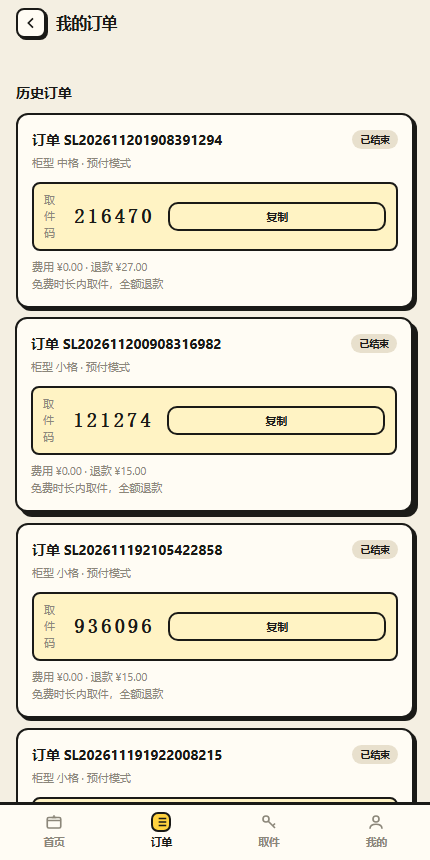
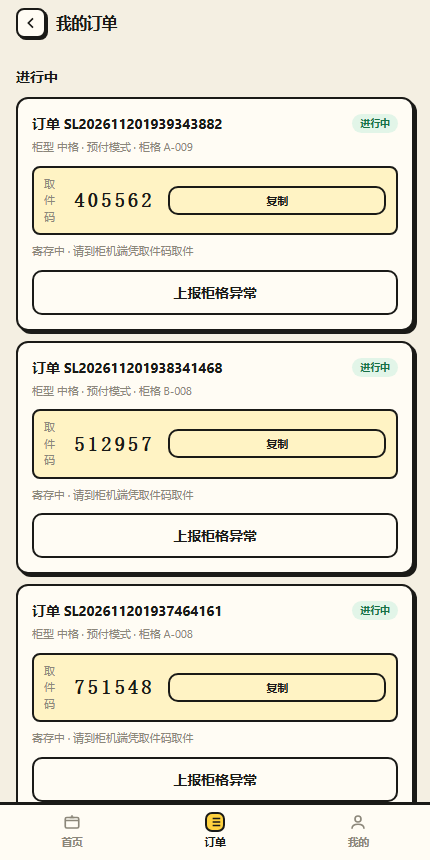
fix v0.3.8 #301g 取件职责统一：用户端删除取件页与入口(仅查看取件码/补交/上报)，柜机端结算明确提示补交金额

diff --git a/web/app.js b/web/app.js
@@ -179,7 +179,6 @@ document.addEventListener("click", (e) => {
     coupon: () => chooseCoupon(Number(id) || 0),
     couponSelect: () => go("u-coupon-select"),
     report: () => reportProblem(Number(id)),
-    pickupMethod: () => go("u-pickup"),
     openOutletMap: () => toast("地图为演示降级实现：显示网点列表"),
     guide: () => go("u-guide"),
     adminNav: () => go(id),
@@ -258,10 +257,10 @@ function statusChip(st) {
  *  用户端
  * ================================================================ */
 function tabbar(active) {
+  // 用户端不提供取件入口：取件统一在柜机触屏端凭取件码完成
   return '<div class="tabbar">' +
     '<button class="' + (active === "home" ? "on" : "") + '" data-action="nav" data-id="u-home">' + I.box + "<span>首页</span></button>" +
     '<button class="' + (active === "orders" ? "on" : "") + '" data-action="nav" data-id="u-orders">' + I.list + "<span>订单</span></button>" +
-    '<button class="' + (active === "pickup" ? "on" : "") + '" data-action="nav" data-id="u-pickup">' + I.key + "<span>取件</span></button>" +
     '<button class="' + (active === "mine" ? "on" : "") + '" data-action="nav" data-id="u-mine">' + I.user + "<span>我的</span></button>" +
     "</div>";
 }
@@ -336,7 +335,8 @@ routes["u-home"] = async function () {
     '<div class="greeting"><div class="hi">欢迎使用智能寄存</div><div class="location" data-action="city" style="cursor:pointer">' + I.pin + " " + esc(cur.city) + ' <span class="faint tiny">切换 ›</span></div></div>' +
     '<div class="hero-card"><div class="lbl">' + esc(cur.city) + ' · 空闲柜格</div><div class="big mono">' + cur.idle + ' <span style="font-size:14px;font-weight:600">格</span></div><div style="font-size:11.5px;opacity:.85">共 ' + outlets.length + ' 个网点可用</div></div>' +
     '<div class="hero-actions"><button class="hero-act" data-action="spec"><div class="ic">' + I.box + '</div><b>立即存件</b><span>选柜型 · 在线支付</span></button>' +
-    '<button class="hero-act" data-action="nav" data-id="u-pickup"><div class="ic">' + I.key + '</div><b>我要取件</b><span>取件码 / 扫码 / 人脸</span></button></div>' +
+    '<button class="hero-act" data-action="nav" data-id="u-orders"><div class="ic">' + I.list + '</div><b>我的订单</b><span>查看取件码 / 补交</span></button></div>' +
+    '<div class="faint tiny mt8" style="text-align:center">取件请到柜机触屏端，输入订单中的 6 位取件码</div>' +
     '<div class="section"><div class="section-h"><b>附近网点</b><span class="link" data-action="nav" data-id="u-outlets">全部 ›</span></div>' +
     outlets.slice(0, 3).map((o) => outletRow(o)).join("") + "</div>" +
     '<div class="card mt12" data-action="nav" data-id="u-chat" style="display:flex;align-items:center;gap:11px;cursor:pointer"><div style="width:34px;height:34px;border-radius:10px;background:var(--bg-2);display:grid;place-items:center">' + I.chat + '</div>' +
@@ -490,8 +490,10 @@ function orderCard(o) {
     '<div class="faint tiny mt5">柜型 ' + sizeName[o.size] + " · " + (o.payMode === "deposit" ? "押金模式" : "预付模式") + (o.lockerCode ? " · 柜格 " + esc(o.lockerCode) : "") + "</div>" +
     (o.code ? '<div class="pickup-code-box mt10"><span class="tiny faint">取件码</span><b class="mono">' + esc(o.code) + '</b><button class="btn sm copy-code" data-code="' + esc(o.code) + '">复制</button></div>' : "") +
     (active
-      ? '<div class="row gap8 mt10"><button class="btn flex1 op-pickup" data-oid="' + o.id + '">取件</button><button class="btn flex1 op-report" data-oid="' + o.id + '">上报柜格异常</button></div>'
-        + '<div class="row gap8 mt8"><button class="btn flex1 op-done" data-oid="' + o.id + '">已取出物品，关门结算</button></div>'
+      ? '<div class="faint tiny mt8">' + (Number(o.extra) > 0 ? '已结算 · 需补交 ¥' + yuan2(o.extra) + '（请在柜机端取件后于此补交）' : '寄存中 · 请到柜机端凭取件码取件') + '</div>' +
+        '<div class="row gap8 mt10">' +
+        (Number(o.extra) > 0 ? '<button class="btn btn-primary flex1 op-extra" data-oid="' + o.id + '">补交 ¥' + yuan2(o.extra) + '</button>' : '') +
+        '<button class="btn flex1 op-report" data-oid="' + o.id + '">上报柜格异常</button></div>'
       : '<div class="faint tiny mt8">费用 ¥' + yuan2(o.fee) + (o.refund ? " · 退款 ¥" + yuan2(o.refund) : "") + (o.extra ? " · 补交 ¥" + yuan2(o.extra) : "") + (o.couponDiscount ? " · 券抵 ¥" + yuan2(o.couponDiscount) : "") +
         (o.settleNote ? "<br>" + esc(o.settleNote) : "") + "</div>") +
     "</div>";
@@ -513,8 +515,12 @@ document.addEventListener("click", (e) => {
     });
     return;
   }
-  const pk = e.target.closest(".op-pickup");
-  if (pk) { state.pickOrderId = Number(pk.dataset.oid); go("u-pickup"); return; }
+  const ex = e.target.closest(".op-extra");
+  if (ex) {
+    const id = Number(ex.dataset.oid);
+    api("/api/orders/" + id + "/pay-extra", "POST", {}).then(() => { toast("补交完成，订单已结束"); render(); }).catch((err) => toast(err.message));
+    return;
+  }
   const rp = e.target.closest(".op-report");
   if (rp) { reportProblem(Number(rp.dataset.oid)); return; }
   const dn = e.target.closest(".op-done");
@@ -535,71 +541,8 @@ document.addEventListener("click", (e) => {
   }
 });
 
-routes["u-pickup"] = function () {
-  const oid = state.pickOrderId || 0;
-  return appHeader("取件", "u-orders") +
-    '<div class="app-pad"><div class="h2">取件开柜</div>' +
-    (oid ? '<div class="faint tiny mt5">目标订单 #' + oid + '　<span id="changeOrder" class="link" style="cursor:pointer">切换订单</span></div>' : "") +
-    '<div class="card mt16"><label class="lbl">取件码开柜</label><input class="input mono" id="pickCode" maxlength="6" placeholder="6位取件码" inputmode="numeric">' +
-    '<button class="btn btn-primary mt12" id="pickByCode" style="width:100%">开柜</button></div>' +
-    '<div class="card mt12"><div class="bold14 mb10">其他取件方式</div>' +
-    '<button class="btn" id="pickByScan" style="width:100%;margin-bottom:8px">手机扫码取件（默认）</button>' +
-    '<button class="btn" id="pickByFace" style="width:100%;margin-bottom:8px">人脸识别取件（演示）</button>' +
-    '<button class="btn" id="pickByPwd" style="width:100%">手机号+密码取件</button></div>' +
-    '<div id="pickResult"></div></div>' + tabbar("pickup");
-};
-
-function pickupErr(msg) {
-  const box = $("#pickResult");
-  if (box) box.innerHTML = '<div class="card mt12" style="border-color:var(--danger,#d94841)"><div class="bold14" style="color:#c62f28">✕ ' + esc(msg) + '</div><div class="faint tiny mt5">请在“我的订单”查看正确取件码，或换用扫码/人脸方式</div></div>';
-}
-
-document.addEventListener("click", (e) => {
-  const done = (r, oid) => {
-    $("#pickResult").innerHTML = '<div class="card mt12"><div class="big-ok">校验通过，柜门已弹开</div><div class="pay-row mt10"><span class="muted">柜格</span><b class="mono">' + esc(r.lockerCode) + '</b></div>' +
-      '<button class="btn btn-primary mt12" id="doneClose" style="width:100%">已取出物品，关门结算</button></div>';
-    $("#doneClose").onclick = () => finishPickup(oid || r.orderId);
-  };
-  if (e.target.closest("#changeOrder")) { state.pickOrderId = 0; go("u-orders"); return; }
-  const doPickup = (payload) => {
-    const oid = state.pickOrderId || 0;
-    const path = oid ? "/api/orders/" + oid + "/pickup" : "/api/orders/0/pickup";
-    const pb = $("#pickResult");
-    if (pb) pb.innerHTML = "";
-    return api(path, "POST", payload).then((r) => done(r, oid)).catch((err) => pickupErr(err.message));
-  };
-  if (e.target.closest("#pickByCode")) {
-    const code = $("#pickCode").value.trim();
-    if (code.length !== 6) { pickupErr("请输入 6 位取件码"); return; }
-    doPickup({ method: "code", code });
-  }
-  if (e.target.closest("#pickByScan")) doPickup({ method: "scan" });
-  if (e.target.closest("#pickByFace")) doPickup({ method: "face" });
-  if (e.target.closest("#pickByPwd")) {
-    modal('<div class="bold14 mb10">取件密码</div><input class="input" id="mPwd" type="password" placeholder="6位以上取件密码"><button class="btn btn-primary mt12" id="mPwdGo" style="width:100%">开柜</button>');
-    $("#mPwdGo").onclick = () => {
-      const pwd = $("#mPwd").value;
-      closeModal();
-      doPickup({ method: "password", password: pwd });
-    };
-  }
-});
-
-async function finishPickup(orderId) {
-  const r = await api("/api/orders/" + orderId + "/pickup-done", "POST", {}).catch((err) => { toast(err.message); return null; });
-  if (!r) return;
-  if (Number(r.extra) > 0) {
-    modal('<div class="bold14">需补交差额</div><div class="mt10">需补交 <b class="price">¥' + yuan2(r.extra) + "</b></div>" +
-      '<button class="btn btn-primary mt16" id="payExtra2" style="width:100%">模拟补交支付</button>');
-    $("#payExtra2").onclick = async () => {
-      await api("/api/orders/" + orderId + "/pay-extra", "POST", {});
-      closeModal(); toast("补交完成，订单结束"); go("u-orders");
-    };
-  } else {
-    toast("结算完成：" + (r.kind === "free" ? "免费时长内，全额退款 ¥" + yuan2(r.refund) : r.kind === "refund" ? "退款 ¥" + yuan2(r.refund) : "无需补退"));
-    go("u-orders");
-  }
-}
+// 用户端不提供取件流程：取件统一在柜机触屏端凭 6 位取件码完成。
+// 用户端仅保留：查看取件码（订单卡片）、补交差额、上报异常。
 
 routes["u-mine"] = function () {
   state._after = () => {
@@ -849,7 +792,9 @@ async function doKPickup() {
     $("#kDone").onclick = async () => {
       try {
         const s = await api("/api/kiosk/orders/" + r.orderId + "/pickup-done", "POST", {});
-        if (box) box.innerHTML = '<div class="big-ok">✓ 取件完成 · ' + (s.kind === "free" ? "免费时长内，已全额退款" : "结算完成") + '</div>';
+        if (box) box.innerHTML = Number(s.extra) > 0
+          ? '<div class="k-err">取件完成，实际费用超出预付 ¥' + yuan2(s.extra) + '，请在用户端订单中完成补交后订单才会结束</div>'
+          : '<div class="big-ok">✓ 取件完成 · ' + (s.kind === "free" ? "免费时长内，已全额退款" : "结算完成，订单已结束") + '</div>';
       } catch (err) { if (box) box.innerHTML = '<div class="k-err">结算失败：' + esc(err.message) + '</div>'; }
     };
   } catch (err) {

diff --git a/scripts/verify_round7.js b/scripts/verify_round7.js
@@ -1,0 +1,47 @@
+/* 第7轮：用户端去除取件入口 + 柜机结算提示补交 */
+const path = require("path");
+const pwDir = "C:/Users/91526/.ai-manager/runtimes/node/24.21.0/node_modules/@playwright/cli/node_modules/playwright-core";
+const { chromium } = require(path.join(pwDir, "index.js"));
+const BASE = "http://localhost:8090/";
+let pass = 0, fail = 0;
+const check = (n, ok, d) => { ok ? pass++ : fail++; console.log((ok ? "[PASS] " : "[FAIL] ") + n + "  " + d); };
+
+(async () => {
+  const b = await chromium.launch({ headless: true });
+  const p = await b.newPage({ viewport: { width: 430, height: 860 } });
+  const errs = [];
+  p.on("pageerror", (e) => errs.push(e.message));
+
+  await p.goto(BASE + "#u-login"); await p.waitForTimeout(300);
+  await p.click('.login-tab[data-m="code"]'); await p.waitForTimeout(150);
+  await p.fill("#phone", "13900001113"); await p.fill("#code", "1234"); await p.check("#agreeChk"); await p.click("#doLogin"); await p.waitForTimeout(1800);
+
+  // 用户端底部导航无"取件"
+  await p.goto(BASE + "#u-home"); await p.waitForTimeout(400);
+  const navText = await p.locator(".tabbar").innerText();
+  check("Q2-底部导航无取件", !navText.includes("取件"), "nav=" + navText.replace(/\n/g, "/"));
+  check("Q2-首页无我要取件", (await p.locator("body").innerText()).indexOf("我要取件") === -1, "no pickup button");
+
+  // 直接访问 u-pickup 不会渲染取件页（回落到首页）
+  await p.goto(BASE + "#u-pickup"); await p.waitForTimeout(400);
+  check("Q2-直接访问u-pickup回落", (await p.evaluate(() => location.hash)) !== "#u-pickup" || !(await p.locator("#pickCode").count()), "hash=" + await p.evaluate(() => location.hash));
+
+  // 订单卡片无"取件"按钮，有"补交"按钮（针对需补交订单）
+  await p.goto(BASE + "#u-orders"); await p.waitForTimeout(500);
+  check("Q2-订单无取件按钮", await p.locator(".op-pickup").count() === 0, "op-pickup=" + await p.locator(".op-pickup").count());
+
+  // 柜机结算提示：用已存在的超时订单（code=815157，extra=3500）走公开结算
+  const settleResult = await p.evaluate(async () => {
+    const r = await fetch("/api/kiosk/pickup", { method: "POST", headers: { "Content-Type": "application/json" }, body: JSON.stringify({ code: "815157" }) });
+    if (!r.ok) return { pickup: false, err: (await r.json()).error };
+    const pk = await r.json();
+    const s = await fetch("/api/kiosk/orders/" + pk.orderId + "/pickup-done", { method: "POST", headers: { "Content-Type": "application/json" }, body: "{}" });
+    return { pickup: true, settle: await s.json() };
+  });
+  check("Q1-柜机结算返回extra", settleResult.pickup && Number(settleResult.settle.extra) > 0, "extra=" + (settleResult.settle && settleResult.settle.extra));
+
+  console.log("JS错误:", errs.length ? errs.join("\n") : "无");
+  console.log("RESULT PASS=" + pass + " FAIL=" + fail);
+  await b.close();
+  process.exit(fail > 0 ? 1 : 0);
+})();

diff --git a/scripts/e2e_check.js b/scripts/e2e_check.js
@@ -59,12 +59,20 @@ const SHOT = "c:/Users/91526/Desktop/智能寄存柜/Smart-Locker/shots";
   const code = await page.textContent("[style*='letter-spacing']").catch(() => null);
   console.log("取件码页:", code, "hash:", await page.evaluate(() => location.hash));
 
-  // 5. 订单页取件→结算
+  // 5. 订单页查看取件码 → 柜机端凭码取件+结算（用户端不再取件）
   await page.goto(BASE + "/#u-orders", { waitUntil: "load" });
   await page.waitForTimeout(600);
   await shot("05-orders");
-  await page.click(".op-done");
-  await page.waitForTimeout(800);
+  const pickupCode = await page.locator(".pickup-code-box b").first().innerText().catch(() => "");
+  console.log("订单取件码:", pickupCode);
+  const kioskResult = await page.evaluate(async (code) => {
+    const r = await fetch("/api/kiosk/pickup", { method: "POST", headers: { "Content-Type": "application/json" }, body: JSON.stringify({ code }) });
+    if (!r.ok) return { ok: false, err: (await r.json()).error };
+    const pk = await r.json();
+    const s = await fetch("/api/kiosk/orders/" + pk.orderId + "/pickup-done", { method: "POST", headers: { "Content-Type": "application/json" }, body: "{}" });
+    return { ok: true, settle: await s.json() };
+  }, pickupCode);
+  console.log("柜机取件结算:", JSON.stringify(kioskResult));
   await shot("06-settled");
   console.log("结算后订单页hash:", await page.evaluate(() => location.hash));
 

diff --git a/cmd/server/main.go b/cmd/server/main.go
@@ -88,9 +88,9 @@ func main() {
 	}
 	// 资源 URL 加版本戳：即使中间代理缓存了旧文件，版本号变化也会强制重新拉取
 	indexHTML := strings.NewReplacer(
-		"proto.css", "proto.css?v=20261120f",
-		"app.css", "app.css?v=20261120f",
-		"app.js", "app.js?v=20261120f",
+		"proto.css", "proto.css?v=20261120g",
+		"app.css", "app.css?v=20261120g",
+		"app.js", "app.js?v=20261120g",
 	).Replace(string(indexBytes))
 
 	srv := httpapi.New(st)
